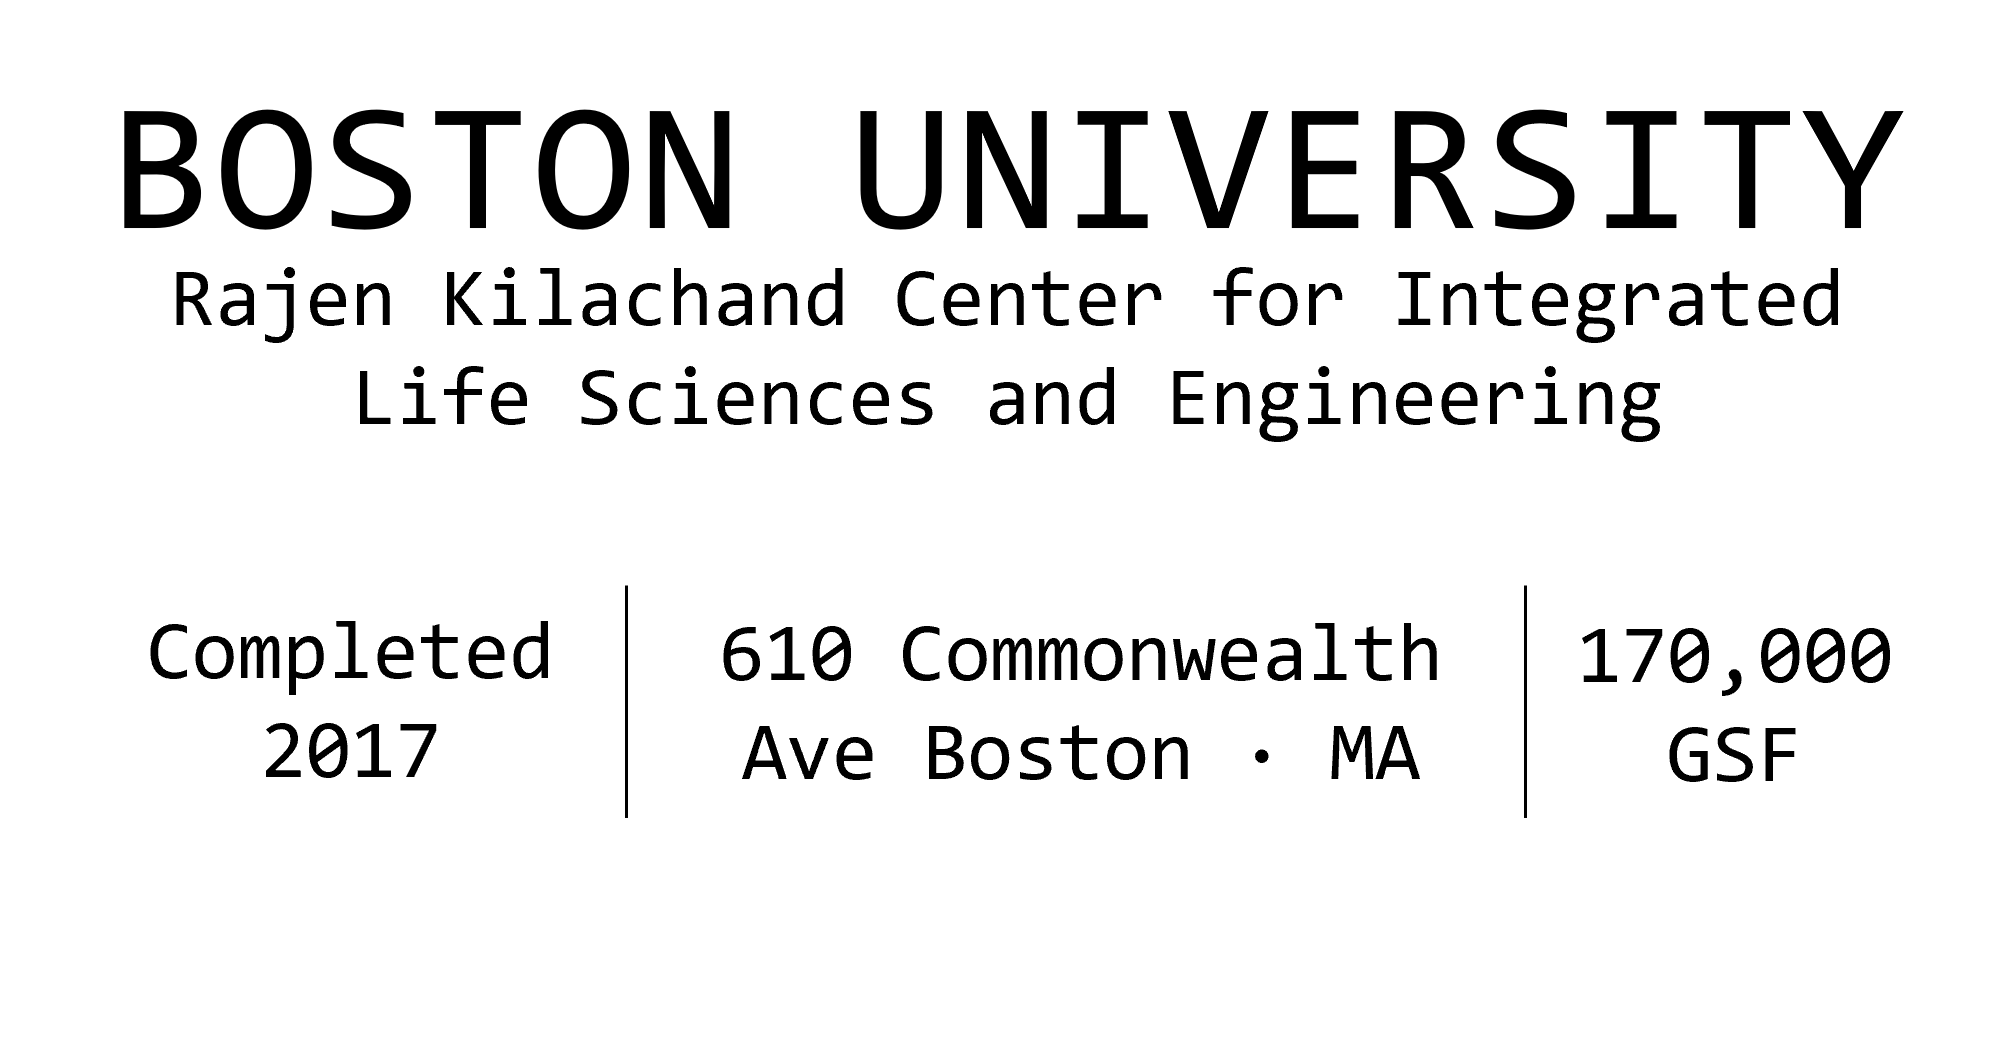
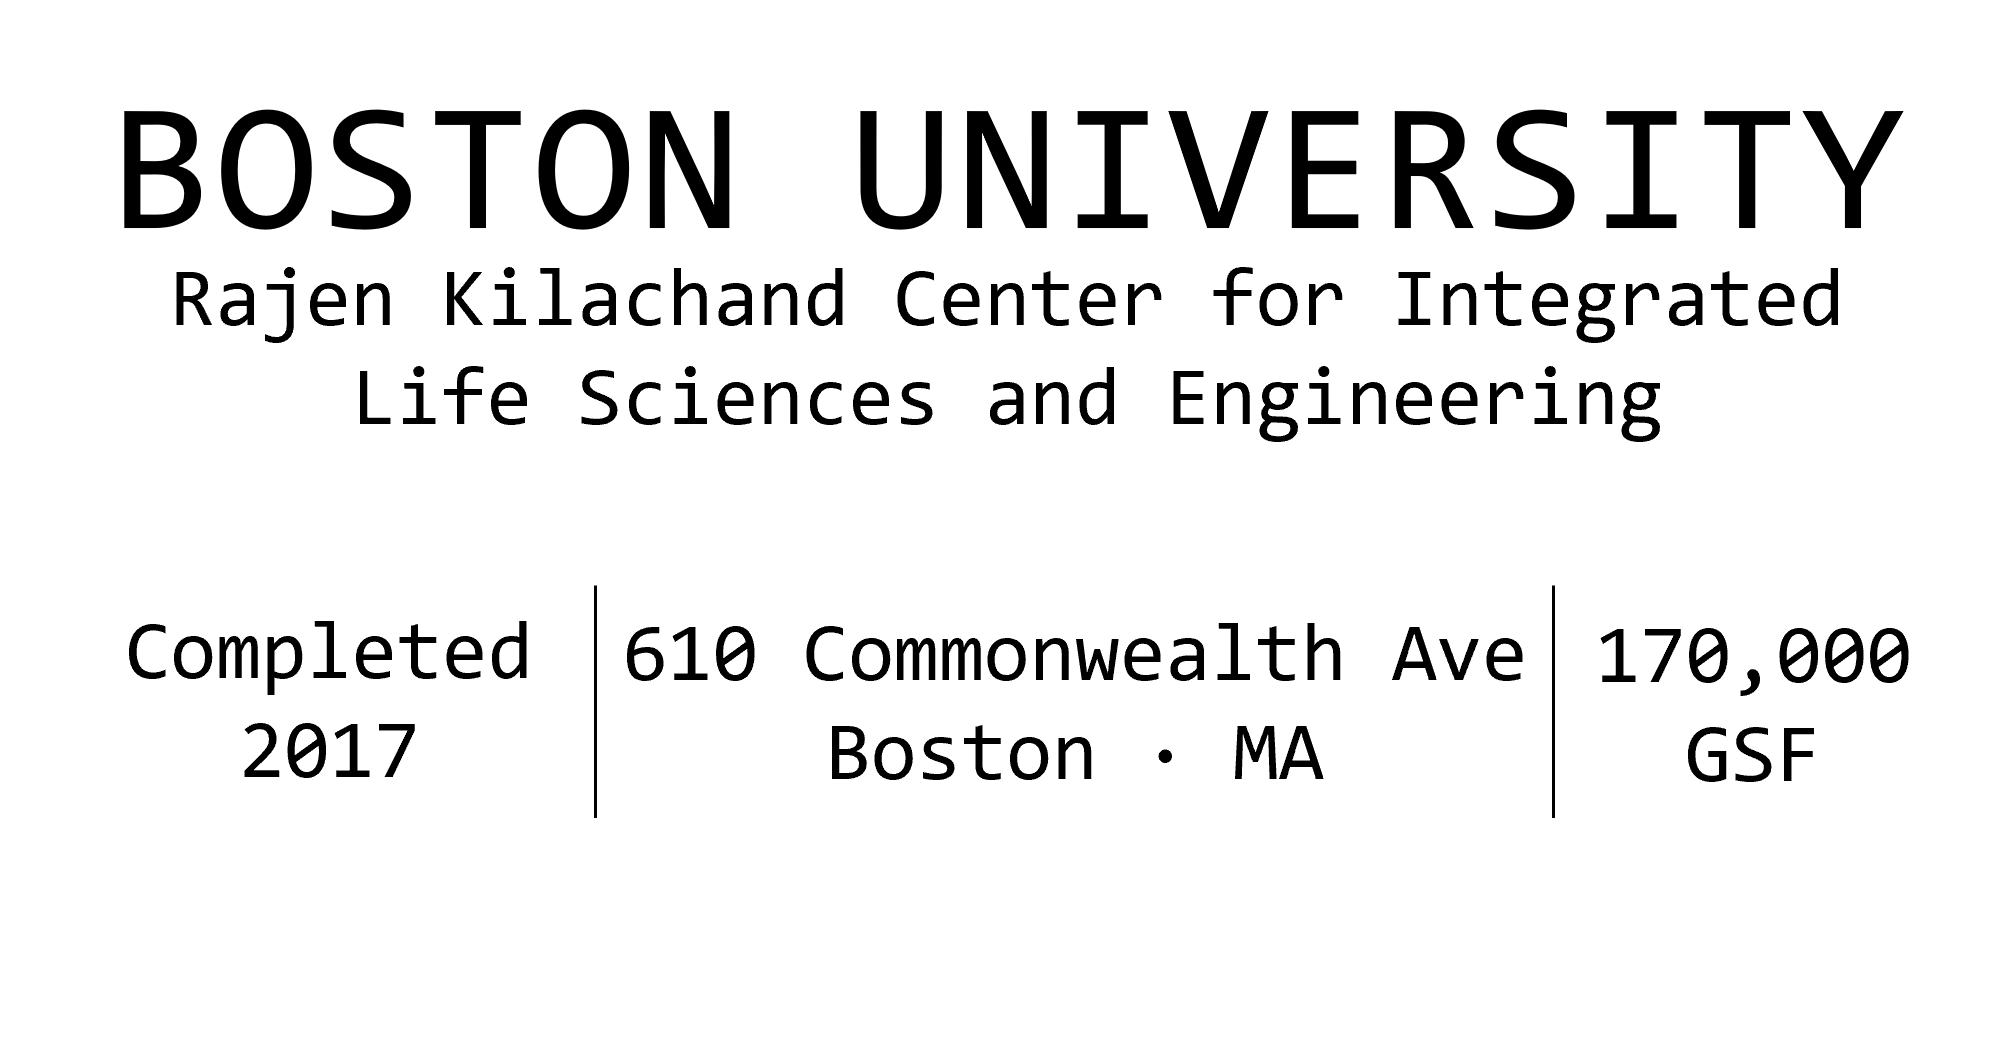
map interact

diff --git a/src/splash.js b/src/splash.js
@@ -376,9 +376,11 @@ document.addEventListener('DOMContentLoaded', function () {
   // 触摸移动事件
   mapContainer.addEventListener('touchmove', (event) => {
     if (isDesktop) return; // 如果是桌面模式，退出
-    event.preventDefault(); // 阻止默认滚动行为
+    event.preventDefault(); // 阻止默认滚动行为    
   
     if (event.touches.length === 1 && isDragging) {
+      const touch = event.touches[0];
+      buildings.forEach(building => toggleTouchVisibility(touch, building));
       return;
  
     } else if (event.touches.length === 2) {
@@ -451,17 +453,38 @@ document.addEventListener('DOMContentLoaded', function () {
   for (let i = 0; i <= 12; i++) {
     const building = document.getElementById(`building${i}`);
     if (building) {
-      building.style.visibility = 'hidden'; // 初始隐藏
+      building.classList.remove('visible'); // 默认不可见，但允许动画控制
       buildings.push(building);
     }
+    
   }
 
 
-  // 为建筑物绑定跳转逻辑
+  // 为建筑物绑定移动端点击判断和 hover 替换逻辑
   buildings.forEach((building, index) => {
-    if (building) {
-      building.addEventListener('click', function () {
-        // 检查是否有相关 ID
+    if (!building) return;
+
+    let touchStartTime = 0;
+    let startX = 0;
+    let startY = 0;
+
+    // 记录 touch 起点
+    building.addEventListener('touchstart', (e) => {
+      if (e.touches.length !== 1) return;
+      touchStartTime = Date.now();
+      startX = e.touches[0].clientX;
+      startY = e.touches[0].clientY;
+    });
+
+    // 判断是否为轻点（非滑动）
+    building.addEventListener('touchend', (e) => {
+      const touchEndTime = Date.now();
+      const duration = touchEndTime - touchStartTime;
+      const dx = e.changedTouches[0].clientX - startX;
+      const dy = e.changedTouches[0].clientY - startY;
+      const distance = Math.sqrt(dx * dx + dy * dy);
+
+      if (duration < 300 && distance < 10) {
         let relatedID;
         if (index === 9) relatedID = 3;
         else if (index === 10) relatedID = 2;
@@ -471,11 +494,31 @@ document.addEventListener('DOMContentLoaded', function () {
         const url = relatedID
           ? `${base}?id=${index + 1}&related=${relatedID}`
           : `${base}?id=${index + 1}`;
-        window.location.href = url; // 跳转到相应页面
+        window.location.href = url;
         showLoadingOverlay();
-      });
-    }
+      }
+    });
   });
+
+  // 桌面模式点击跳转逻辑
+  buildings.forEach((building, index) => {
+    building.addEventListener('click', () => {
+      if (!isDesktop) return;
+
+      let relatedID;
+      if (index === 9) relatedID = 3;
+      else if (index === 10) relatedID = 2;
+      else if (index === 11) relatedID = 6;
+
+      const url = relatedID
+        ? `project_index.html?id=${index + 1}&related=${relatedID}`
+        : `project_index.html?id=${index + 1}`;
+      
+      window.location.href = url;
+      showLoadingOverlay();
+    });
+  });
+
 
   // 显示加载动画
   function showLoadingOverlay() {
@@ -494,7 +537,15 @@ document.addEventListener('DOMContentLoaded', function () {
     buildings.forEach(building => toggleVisibility(event, building));
   });
 
-  // 根据鼠标位置切换建筑图片显示状态
+  function fadeIn(element) {
+    element.classList.add('visible');
+  }
+  
+  function fadeOut(element) {
+    element.classList.remove('visible');
+  }
+  
+
   function toggleVisibility(event, element) {
     const rect = element.getBoundingClientRect();
     if (
@@ -503,11 +554,28 @@ document.addEventListener('DOMContentLoaded', function () {
       event.clientY >= rect.top &&
       event.clientY <= rect.bottom
     ) {
-      element.style.visibility = 'visible';
+      fadeIn(element);
     } else {
-      element.style.visibility = 'hidden';
+      fadeOut(element);
     }
   }
+  
+  
+  function toggleTouchVisibility(touch, element) {
+    const rect = element.getBoundingClientRect();
+    if (
+      touch.clientX >= rect.left &&
+      touch.clientX <= rect.right &&
+      touch.clientY >= rect.top &&
+      touch.clientY <= rect.bottom
+    ) {
+      fadeIn(element);
+    } else {
+      fadeOut(element);
+    }
+  }
+  
+
 
   // 页面加载时隐藏加载动画
   window.onload = function () {

diff --git a/index.html b/index.html
@@ -53,31 +53,31 @@
         <!-- Building Labels -->
         <div class="building-label" id="label1">
           <div class="label-title">Tufts Tu Complex </div>
-          <div class="label-subtitle">200 College Ave</div>
+          <div class="label-subtitle">200 College Ave · Medford</div>
         </div>
         <div class="building-label" id="label2">
           <div class="label-title">Ragon Institute </div>
-          <div class="label-subtitle">600 Main Street</div>
+          <div class="label-subtitle">600 Main Street · Cambridge</div>
         </div>
         <div class="building-label" id="label3">
           <div class="label-title">Northeastern ISEC </div>
-          <div class="label-subtitle">805 Columbus Ave</div>
+          <div class="label-subtitle">805 Columbus Ave · Boston</div>
         </div>
         <div class="building-label" id="label4">
           <div class="label-title">Northeastern EXP </div>
-          <div class="label-subtitle">805 Columbus Ave</div>
+          <div class="label-subtitle">805 Columbus Ave · Boston</div>
         </div>
         <div class="building-label" id="label5">
           <div class="label-title">BU Kilachand </div>
-          <div class="label-subtitle">610 Commonwealth</div>
+          <div class="label-subtitle">610 Commonwealth · Boston</div>
         </div>
         <div class="building-label" id="label6">
           <div class="label-title">BC 245 Beacon </div>
-          <div class="label-subtitle">245 Beacon St</div>
+          <div class="label-subtitle">245 Beacon St · Chestnut Hill</div>
         </div>
         <div class="building-label" id="label7">
           <div class="label-title">BIDMC Klarman </div>
-          <div class="label-subtitle">111 Francis St</div>
+          <div class="label-subtitle">111 Francis St · Boston</div>
         </div>
 
 

diff --git a/src/splash.css b/src/splash.css
@@ -98,11 +98,20 @@ body, html {
 }
   
   /* 如果有建筑标记（如额外图片），统一样式 */
-.building {
-    position: absolute; /* 使用绝对定位 */
-    transform-origin: center center; /* 缩放中心 */
-    cursor: pointer; /* 鼠标样式 */
-}
+  .building {
+    position: absolute;
+    transform-origin: center center;
+    cursor: pointer;
+    opacity: 0;
+    transition: opacity 0.6s ease;
+    pointer-events: none;
+    z-index: 10; /* 确保在最前层 */
+  }
+  .building.visible {
+    opacity: 1;
+    pointer-events: auto;
+  }
+  
   
 
 #PL {
